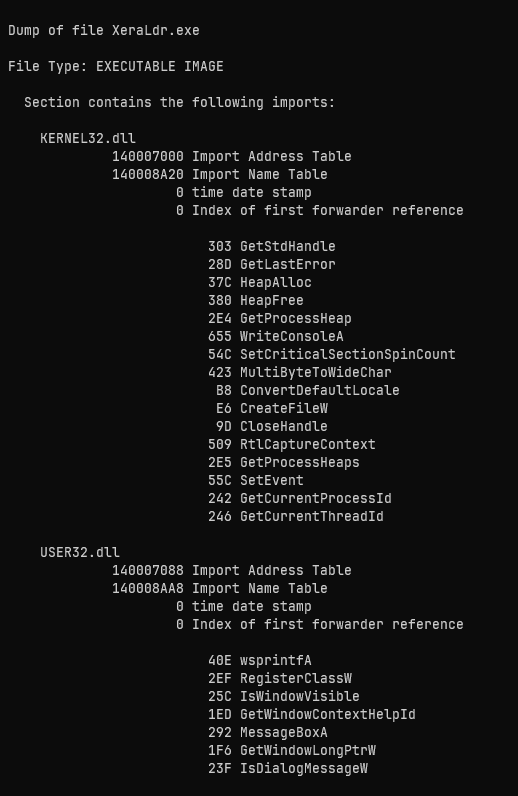
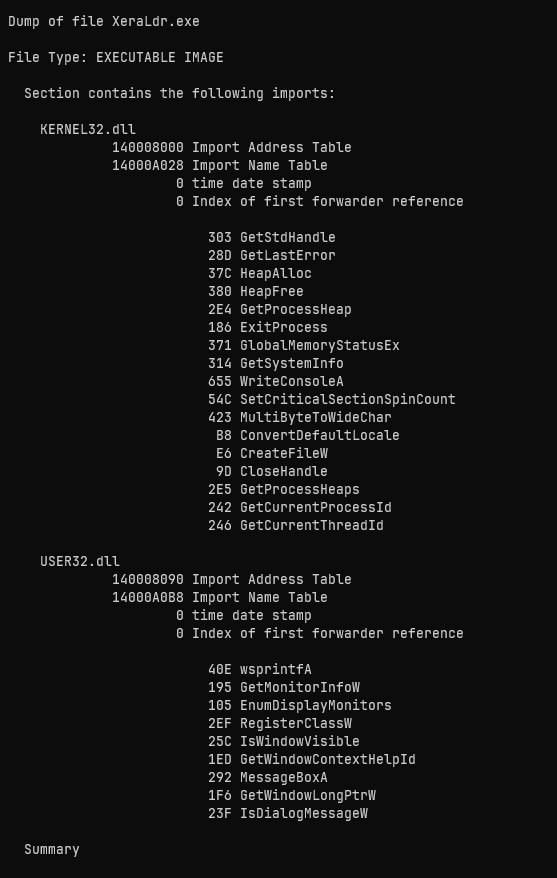
Initial commit - XeraLdr Release

diff --git a/README.md b/README.md
@@ -1,5 +1,9 @@
 # XeraLdr
 
+<p align="center">
+  <img src="docs/screenshots/banner.png" width="800" alt="XeraLdr Banner">
+</p>
+
 A stealthy and modular Windows loader developed by **xec412**.
 
 ## ⚠️ Disclaimer
@@ -73,31 +77,3 @@ XeraLdr is a custom loader designed to execute payloads with high stealth agains
 1. Clone the repository:
    ```bash
    git clone https://github.com/xec412/XeraLdr.git
-   ```
-2. Open the solution file `XeraLdr.slnx` with Visual Studio.
-
-3. Select **Release | x64** configuration.
-
-4. Go to **Build -> Rebuild Solution**.
-
-All necessary build settings are already configured in the project. No additional changes are required.
-```
-
-## Learning Resources
-
-- [Maldev Academy](https://maldevacademy.com/)
-
----
-
-## References
-
-- [Sandbox-Detection-Techniques](https://github.com/arxhr007/Sandbox-Detection-Techniques)
-- [LibTomCrypt](https://github.com/libtom/libtomcrypt)
-- [C5pider's Tweet on Sleep Obfuscation](https://x.com/C5pider/status/1743209459533435308)
-
----
-
-## Legal
-
-This project is licensed under the **GPL-3.0 License**.  
-See the [LICENSE](LICENSE) file for details.